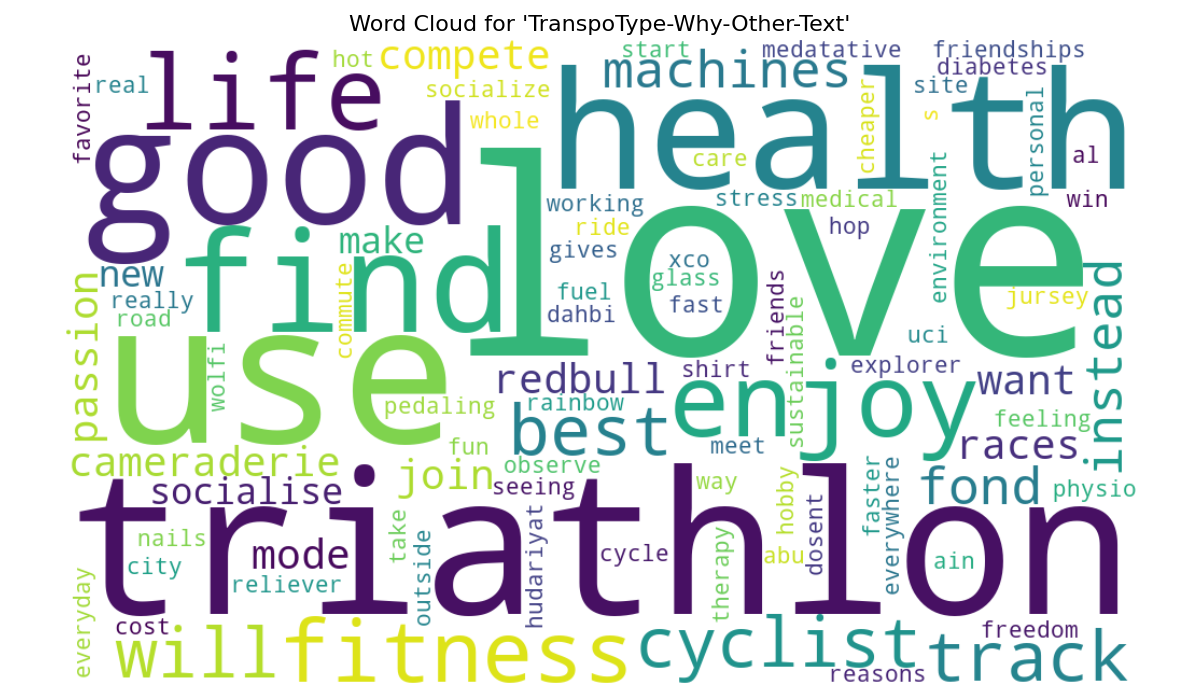
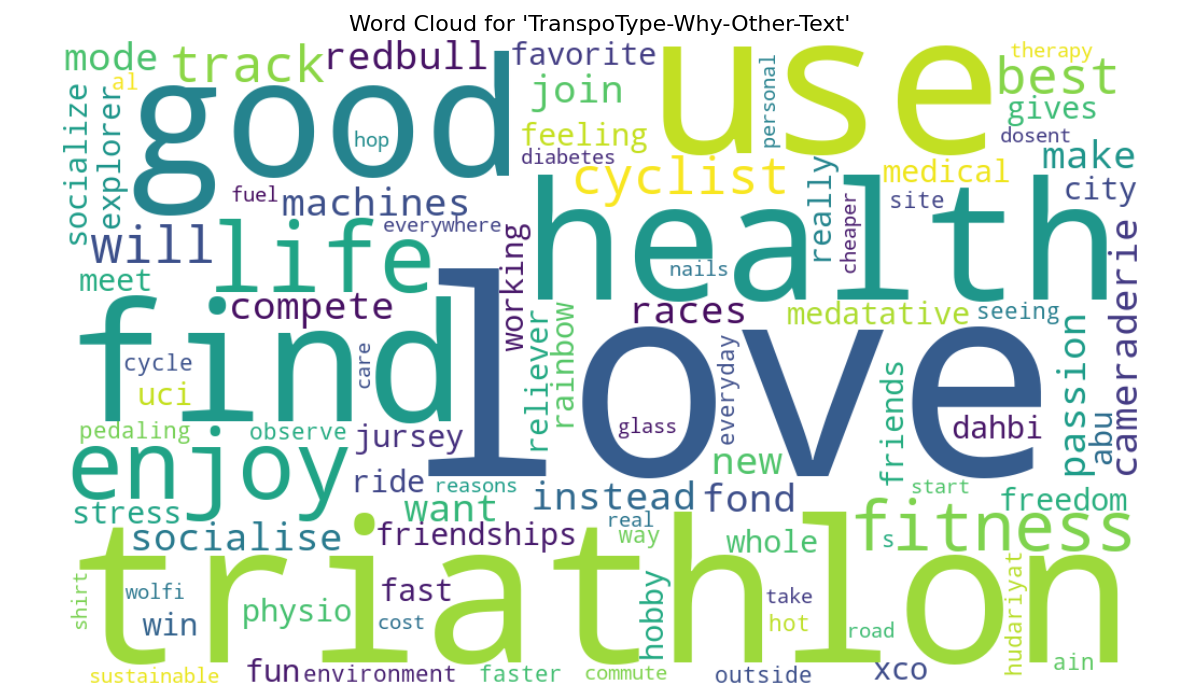
Final report analysis

diff --git a/2025-06-26_Bike-UAE_Survey-Data-Analysis.py b/2025-06-26_Bike-UAE_Survey-Data-Analysis.py
@@ -17,6 +17,10 @@ import statsmodels.api as sm
 from statsmodels.formula.api import ols
 from statsmodels.stats.anova import anova_lm
 
+from sklearn.linear_model import LinearRegression
+from sklearn.metrics import r2_score
+from sklearn.ensemble import RandomForestRegressor
+
 import re
 
 # Set Working Directory to folder with data
@@ -86,7 +90,7 @@ plt.show()
 
 
 
-'''
+
 ### Duration Distribution ###
 # Examine initial boxplot
 sns.boxplot(x=df['Duration'])
@@ -118,7 +122,7 @@ plt.xlabel('Duration (minutes)')
 plt.ylabel('Number of Respondents')
 plt.title('Survey Completion Time Distribution')
 plt.show()
-'''
+
 
 
 
@@ -160,6 +164,18 @@ safety_mapping = {
     '5 - not safe at all, many concerns': 5
 }
 df['SafetyScore'] = df['Emirate-Safety'].map(safety_mapping)
+
+# Map TranspoType-HowOften to numeric scale
+howOften_mapping = {
+    'Daily': 365,
+    '4-6 times a week': 260,
+    '2-3 times a week': 130,
+    'Once a week': 52,
+    'A few times a month': 24,
+    'Once a month': 12,
+    'A few times a year': 4
+}
+df['HowOftenScore'] = df['TranspoType-HowOften'].map(howOften_mapping)
 
 
 # Count 'Prefer not to say' and NaN values in the Gender column
@@ -217,7 +233,7 @@ plt.show()
 print()
 
 ####################################################################
-'''
+
 ### Wordcloud ###
 
 from wordcloud import WordCloud, STOPWORDS
@@ -261,18 +277,21 @@ def plot_wordclouds(df, columns, extra_stopwords=None, colormap='viridis'):
         plt.tight_layout()
         plt.show()
 
-columns_to_plot = ['Emirate-WhyLikeRiding', 'Emirate-Initiatives','BikeType-Other-Text',
-                   'RiderType-Other-Text', 'TranspoType-Why-Other-Text', 'Education-Other-Text',
+columns_to_plot = ['TranspoType-Why-Other-Text', 'Education-Other-Text',
                    'KidsCycle-No-Text', 'NoRideCommute-Other-Text', 'LifestyleInfluence-Other-Text',
                    'Challenges-Other-Text', 'ExperienceImprovement-Other-Text', 'CycleShopsInfluence-Other-Text',
                    'CycleShopsBenefit-Other-Text', 'AlDhafra-Location', 'UmmAlQuwain-Location', 'Emirate-Location-Other-Text']
 plot_wordclouds(df, columns_to_plot)
 
-'''
+
+
+
 
 ######################################################################
 
 ### Frequency Plots ###
+
+
 
 def plot_true_frequencies(df, columns, as_percentage=True, title="Frequency of Reasons for Riding", color='steelblue'):
     """
@@ -546,6 +565,8 @@ plt.grid(axis='y', linestyle='--', alpha=0.5)
 plt.tight_layout()
 plt.show()
 
+
+
 ############################################################################################
 #                                       ANALYSIS
 ############################################################################################
@@ -605,33 +626,79 @@ emirate_groups = [group for group in emirate_groups if len(group) > 1]
 
 ### ANOVA TESTS ###
 from patsy import dmatrix
-print("\n--- ANOVA Tests ---\n")
 
+### ANOVA TEST Frequency ###
+print("\n--- ANOVA AGAIN Tests ---\n")
+
+# Copy the original dataframe
 df_anova = df.copy()
-df_anova['SafetyScore'] = df_anova['Emirate-Safety'].map(safety_mapping)
 
+# Define features to test
+features = [
+    'DurationInUAE','Country','Age','Salary','YearsRiding',
+    'TrackRides','Emirate','OwnBike','EmploymentStatus','Gender'
+]
 
-# Define the features to test (now includes TranspoType-HowOften)
-features = ['Gender', 'Age', 'Salary', 'Emirate', 'TranspoType-HowOften', 'YearsRiding']
-anova_results = {}
+# Dictionary to store p-values
+pval_dict = {}
 
-# Loop through features and run one-way ANOVA for each
+# Loop and calculate ANOVA
 for feature in features:
     df_test = df_anova[df_anova['SafetyScore'].notna() & df_anova[feature].notna()].copy()
     df_test[feature] = df_test[feature].astype('category')
-
-    # Use Q() for safe column referencing
-    formula = f'SafetyScore ~ C(Q("{feature}"))'
     
+    formula = f'SafetyScore ~ C(Q("{feature}"))'
     model = ols(formula, data=df_test).fit()
     anova_table = anova_lm(model, typ=2)
 
-    anova_results[feature] = anova_table
+    # Store p-value from the feature's row (not the residual)
+    pval_dict[feature] = anova_table["PR(>F)"].iloc[0]
 
-# Display results
-for feature, table in anova_results.items():
-    print(f"\n### One-Way ANOVA: {feature} ###")
-    print(table)
+# Create and display DataFrame of p-values
+pval_df = pd.DataFrame.from_dict(pval_dict, orient='index', columns=['p-value'])
+pval_df = pval_df.sort_values(by='p-value')
+
+print("\n### SafetyScore ANOVA P-Values for Each Feature ###")
+print(pval_df)
+
+
+
+
+
+
+### ANOVA TEST Frequency ###
+print("\n--- ANOVA AGAIN Tests ---\n")
+
+# Copy the original dataframe
+df_anova = df.copy()
+
+# Define features to test
+features = [
+    'DurationInUAE','Country','Age','Salary','YearsRiding',
+    'TrackRides','Emirate','OwnBike','EmploymentStatus','Gender'
+]
+
+# Dictionary to store p-values
+pval_dict = {}
+
+# Loop and calculate ANOVA
+for feature in features:
+    df_test = df_anova[df_anova['HowOftenScore'].notna() & df_anova[feature].notna()].copy()
+    df_test[feature] = df_test[feature].astype('category')
+    
+    formula = f'HowOftenScore ~ C(Q("{feature}"))'
+    model = ols(formula, data=df_test).fit()
+    anova_table = anova_lm(model, typ=2)
+
+    # Store p-value from the feature's row (not the residual)
+    pval_dict[feature] = anova_table["PR(>F)"].iloc[0]
+
+# Create and display DataFrame of p-values
+pval_df = pd.DataFrame.from_dict(pval_dict, orient='index', columns=['p-value'])
+pval_df = pval_df.sort_values(by='p-value')
+
+print("\n### HowOftenScore ANOVA P-Values for Each Feature ###")
+print(pval_df)
 
 ################################################################
 
@@ -852,3 +919,160 @@ anova_result = anova_lm(model, typ=2)
 
 print("Challenging Norms Anova:")
 print(anova_result)
+
+# Run ANOVA
+df_anova_howoften = df[['SafetyScore', 'HowOftenScore']].dropna()
+df_anova_howoften['HowOftenScore'] = df_anova_howoften['HowOftenScore'].astype('category')
+
+model = ols('SafetyScore ~ C(HowOftenScore)', data=df_anova_howoften).fit()
+anova_result = anova_lm(model, typ=2)
+
+print("Safety vs How Often Anova:")
+print(anova_result)
+
+
+
+# Drop NA values
+df_model = df[['SafetyScore', 'HowOftenScore']].dropna()
+
+# Prepare X and y
+X = df_model[['HowOftenScore']].values
+y = df_model['SafetyScore'].values
+
+# Fit linear regression model
+model = LinearRegression()
+model.fit(X, y)
+y_pred = model.predict(X)
+r2 = r2_score(y, y_pred)
+
+# Plot
+plt.figure(figsize=(8, 6))
+sns.regplot(x='HowOftenScore', y='SafetyScore', data=df_model, scatter_kws={'alpha':0.6}, line_kws={'color':'red'})
+plt.title(f'Safety Score vs How Often They Ride\n$R^2$ = {r2:.3f}')
+plt.xlabel('Riding Frequency (days/yr)')
+plt.ylabel('Safety Score (1 = Safe, 5 = Not Safe)')
+plt.grid(True, linestyle='--', alpha=0.5)
+plt.tight_layout()
+plt.show()
+
+
+
+# Ensure required columns are present and drop NA
+df_anova_own = df[['OwnBike', 'HowOftenScore']].dropna()
+
+# Convert OwnBike to categorical
+df_anova_own['OwnBike'] = df_anova_own['OwnBike'].astype('category')
+df_anova_own['HowOftenScore'] = df_anova_own['HowOftenScore'].astype('float')
+
+# Fit ANOVA model
+model = ols('HowOftenScore ~ C(OwnBike)', data=df_anova_own).fit()
+anova_result = anova_lm(model, typ=2)
+
+print("Own Bike vs How Often Anova:")
+print(anova_result)
+
+
+
+#########
+
+# Filter rows with valid HowOftenScore
+df_rf = df[df['HowOftenScore'].notna()].copy()
+
+# Expanded list of features
+predictor_columns = [
+    'OwnBike', 'Gender', 'Age', 'Salary', 'Emirate', 'Country', 'Nationality',
+    'Why-Commuting', 'Why-Racing', 'Why-Fitness', 'Why-Leisure',
+    'TrackRides', 'EmploymentStatus', 'DurationInUAE', 'YearsRiding',
+    'RideWith-Myself', 'RideWith-CyclingClub', 'RideWith-Family', 'RideWith-Friends'
+]
+
+# Filter only existing columns
+predictor_columns = [col for col in predictor_columns if col in df_rf.columns]
+
+# Encode categorical and boolean columns
+for col in predictor_columns:
+    df_rf[col] = df_rf[col].astype(str)
+    le = LabelEncoder()
+    df_rf[col] = le.fit_transform(df_rf[col])
+
+# Prepare X and y
+X = df_rf[predictor_columns]
+y = df_rf['HowOftenScore']
+
+# Fit Random Forest
+rf_model = RandomForestRegressor(n_estimators=100, random_state=42)
+rf_model.fit(X, y)
+
+# Feature importances
+importances = pd.Series(rf_model.feature_importances_, index=predictor_columns).sort_values(ascending=False)
+
+#########
+
+# Updated: Remove group-based or motivational variables from main model
+reduced_predictors = [
+    'OwnBike', 'Gender', 'Age', 'Salary', 'Emirate', 'Country', 'Nationality',
+    'TrackRides', 'EmploymentStatus', 'DurationInUAE', 'YearsRiding'
+]
+
+# Filter only existing columns
+reduced_predictors = [col for col in reduced_predictors if col in df_rf.columns]
+
+# Encode categorical
+df_main = df_rf[reduced_predictors + ['HowOftenScore']].copy()
+for col in reduced_predictors:
+    df_main[col] = df_main[col].astype(str)
+    le = LabelEncoder()
+    df_main[col] = le.fit_transform(df_main[col])
+
+# Fit random forest on reduced features
+X_main = df_main[reduced_predictors]
+y_main = df_main['HowOftenScore']
+
+rf_main = RandomForestRegressor(n_estimators=100, random_state=42)
+rf_main.fit(X_main, y_main)
+
+importances_main = pd.Series(rf_main.feature_importances_, index=reduced_predictors).sort_values(ascending=False)
+
+# Plot main feature importance
+plt.figure(figsize=(8, 6))
+importances_main.plot(kind='barh', color='mediumorchid')
+plt.title('Feature Importance for Riding Frequency')
+plt.xlabel('Importance Score')
+plt.gca().invert_yaxis()
+plt.grid(True, linestyle='--', alpha=0.5)
+plt.tight_layout()
+plt.show()
+
+# ===============================
+# Separate model: Motivation-based features only
+motivation_vars = [
+    'Why-Racing', 'Why-Leisure', 'Why-Commuting', 'Why-TourdeFrance', 'Why-Fitness'
+]
+motivation_vars = [col for col in motivation_vars if col in df_rf.columns]
+
+# Encode categorical
+df_motive = df_rf[motivation_vars + ['HowOftenScore']].copy()
+for col in motivation_vars:
+    df_motive[col] = df_motive[col].astype(str)
+    le = LabelEncoder()
+    df_motive[col] = le.fit_transform(df_motive[col])
+
+# Fit model on motivation vars
+X_motive = df_motive[motivation_vars]
+y_motive = df_motive['HowOftenScore']
+
+rf_motive = RandomForestRegressor(n_estimators=100, random_state=42)
+rf_motive.fit(X_motive, y_motive)
+
+importances_motive = pd.Series(rf_motive.feature_importances_, index=motivation_vars).sort_values(ascending=False)
+
+# Plot motivation-only feature importances
+plt.figure(figsize=(6, 4))
+importances_motive.plot(kind='barh', color='salmon')
+plt.title('Motivations Feature Importance for Riding Frequency')
+plt.xlabel('Importance Score')
+plt.gca().invert_yaxis()
+plt.grid(True, linestyle='--', alpha=0.5)
+plt.tight_layout()
+plt.show()
+
